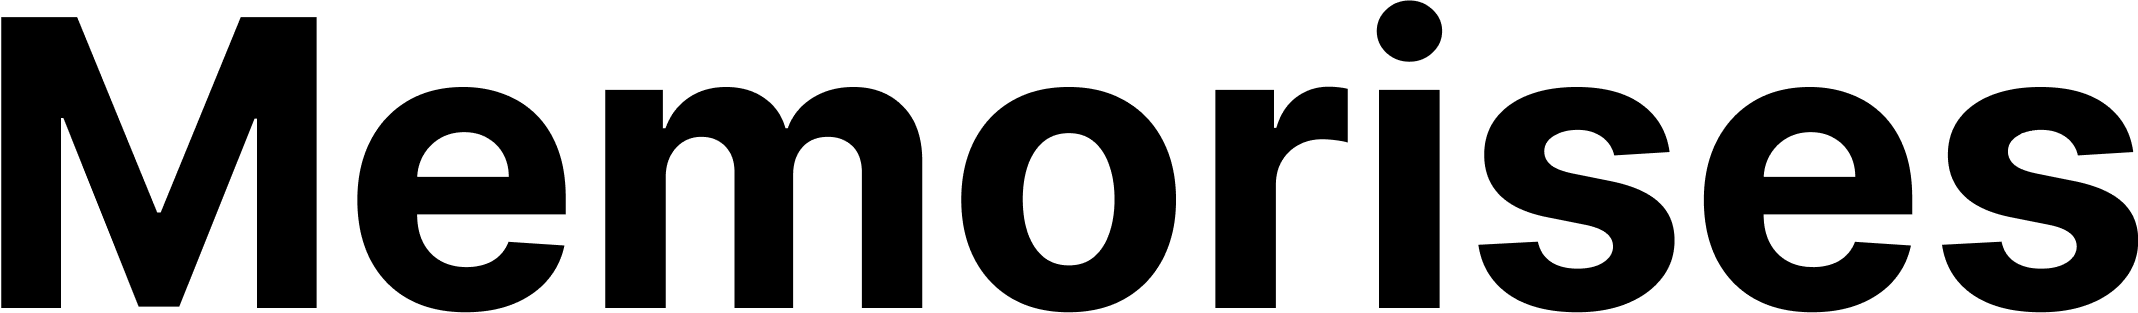
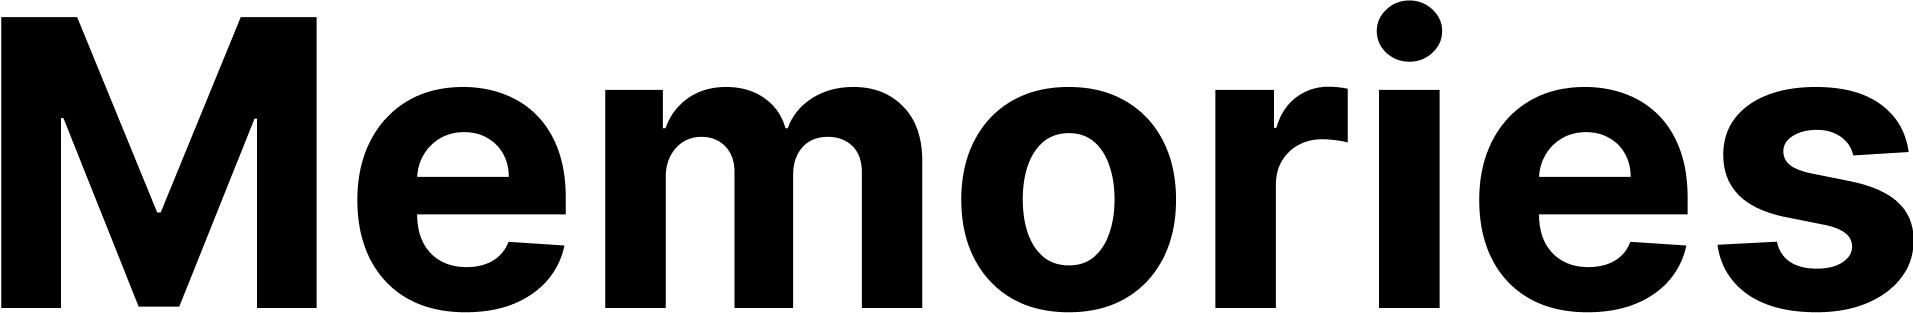
i

diff --git a/index.html b/index.html
@@ -4,7 +4,7 @@
     <meta charset="UTF-8">
     <meta http-equiv="X-UA-Compatible" content="IE=edge">
     <meta name="viewport" content="width=device-width, initial-scale=1.0">
-    <title>Memorises</title>
+    <title>Memories</title>
     <link rel="stylesheet" href="style.css" />
 </head>
 <body>
